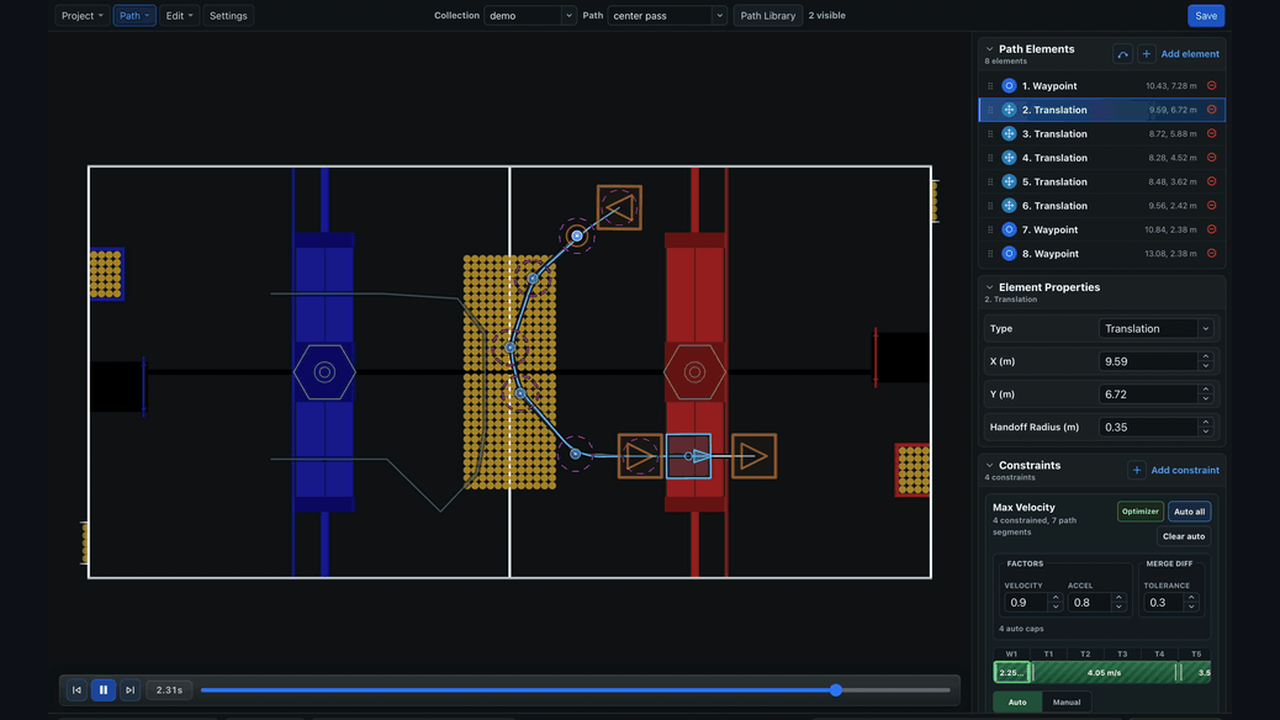
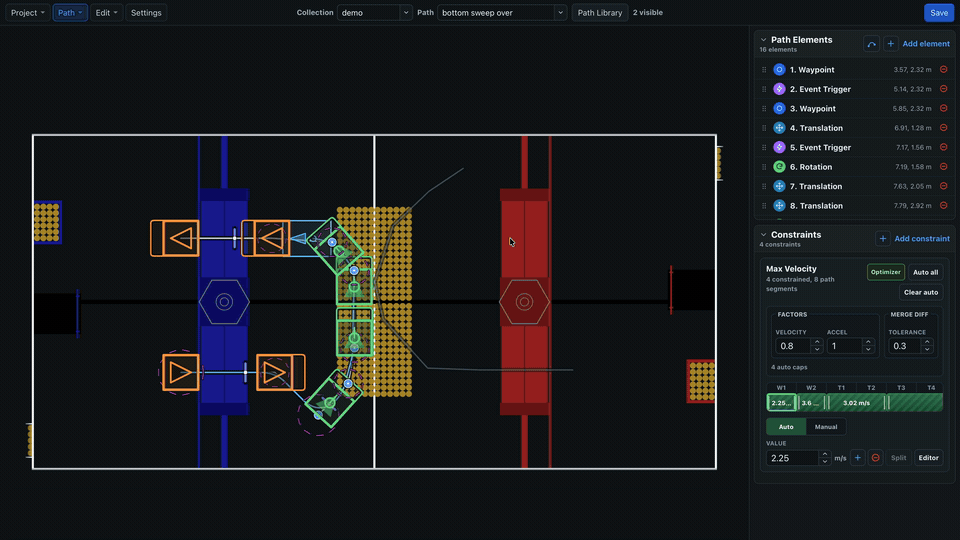
docs: use full homepage simulation demo

diff --git a/scripts/media/README.md b/scripts/media/README.md
@@ -1,0 +1,12 @@
+# Documentation media generators
+
+The homepage overview is derived from `BLine-Web/assets/readme/bline-web-demo.gif`, the full animation embedded by the maintainer's GitHub profile README.
+
+From the BLine-Docs repository root, run:
+
+```bash
+bash scripts/media/generate_homepage_simulation.sh \
+  /path/to/BLine-Web/assets/readme/bline-web-demo.gif
+```
+
+The script preserves the full sequence, crops the machine-specific status strip, keeps the 960 px documentation width and near-12 fps cadence, optimizes the GIF, and regenerates both reduced-motion/print posters. The homepage's duration-only exception is defined in `DOCS_SPEC.md`; all other visual-media requirements still apply.

diff --git a/DOCS_SPEC.md b/DOCS_SPEC.md
@@ -93,6 +93,8 @@ Use screenshots and short animations when they make a workflow, UI state, spatia
 | File size | Keep the final GIF below 15 MB. Treat 15 MB as a rejection threshold, not a target, and prefer the smallest readable result. |
 | Playback speed | Keep playback close to real time. If adjusted, stay between 0.75x and 1.25x. |
 
+The primary homepage overview is a deliberate duration-only exception: it may use the full project README demonstration even when that sequence exceeds 12 seconds. Preserve the complete sequence instead of trimming it solely to meet the normal duration target. Width, frame rate, file size, playback speed, freshness, poster, lazy-looping, reduced-motion, and accessibility requirements still apply.
+
 - Begin with useful context, show the key action and its result, and end on a stable confirmation frame.
 - Leave about 0.7-1.4 seconds between visible pointer or keyboard actions and 0.8-2 seconds after a state-changing action so the result can be read.
 - Never compress the gap between user actions below 0.5 seconds. Avoid more than 2.5 seconds of static dead time unless a real processing delay is part of the behavior being demonstrated.

diff --git a/docs/index.md b/docs/index.md
@@ -7,7 +7,7 @@ BLine is an open-source point-to-point path planning suite for FRC holonomic dri
 [Build your first BLine auto](getting-started/prerequisites.md){ .md-button .md-button--primary }
 [Try BLine Web](https://bline-web.pages.dev/){ .md-button }
 
-![BLine Web simulating a multi-element path around the 2026 REBUILT field from the robot's live geometric progress](assets/images/gif-posters/homepage-simulation-start.png){ .gif-demo data-gif-source="/assets/gifs/web/homepage-simulation.gif" data-gif-poster="/assets/images/gif-posters/homepage-simulation-start.png" data-gif-end="/assets/images/gif-posters/homepage-simulation-end.png" data-gif-duration="5000" }
+![BLine Web simulating a multi-element path around the 2026 REBUILT field from the robot's live geometric progress](assets/images/gif-posters/homepage-simulation-start.png){ .gif-demo data-gif-source="/assets/gifs/web/homepage-simulation.gif" data-gif-poster="/assets/images/gif-posters/homepage-simulation-start.png" data-gif-end="/assets/images/gif-posters/homepage-simulation-end.png" data-gif-duration="26330" }
 ![Static final state of the BLine Web simulation on the 2026 REBUILT field](assets/images/gif-posters/homepage-simulation-end.png){ .gif-print-poster }
 
 !!! success "Competition-tested in 2026"